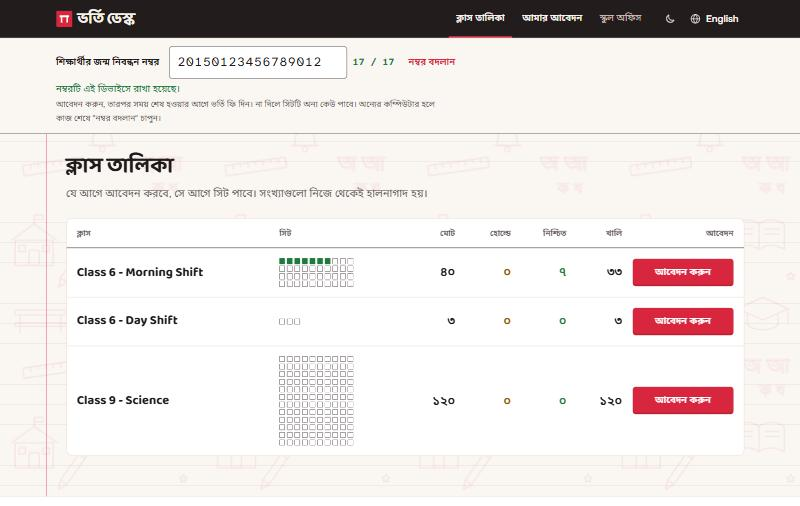
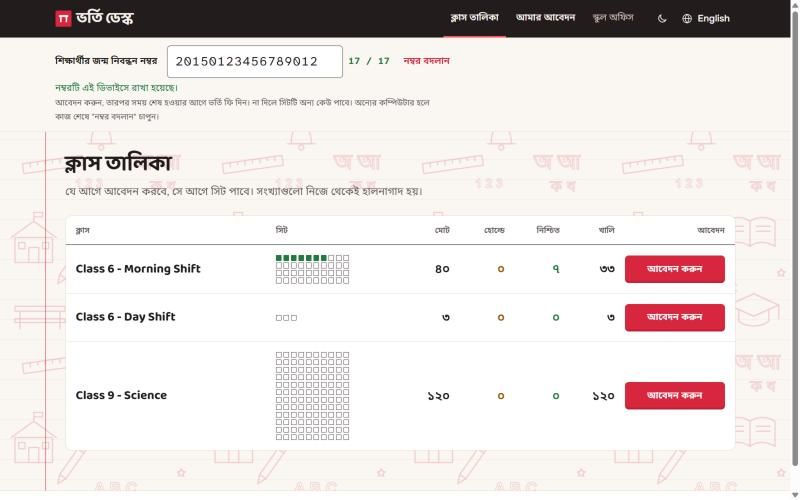
Make the background doodles clearer and add English letters

diff --git a/frontend/src/styles/tokens.css b/frontend/src/styles/tokens.css
@@ -6,7 +6,7 @@
   /* 60%: clean warm white for pages and cards. */
   --paper: #faf7f2;
   --paper-line: #f1ebe2;
-  --doodle: rgb(215 38 61 / 0.09);
+  --doodle: rgb(215 38 61 / 0.2);
   --sheet: #ffffff;
   --rule: #e7dfd4;
   --margin-line: #d7263d;
@@ -67,7 +67,7 @@
   color-scheme: dark;
   --paper: #141011;
   --paper-line: #1a1516;
-  --doodle: rgb(255 84 104 / 0.08);
+  --doodle: rgb(255 84 104 / 0.18);
   --sheet: #1f191a;
   --rule: #352c2d;
   --margin-line: #ff5468;
